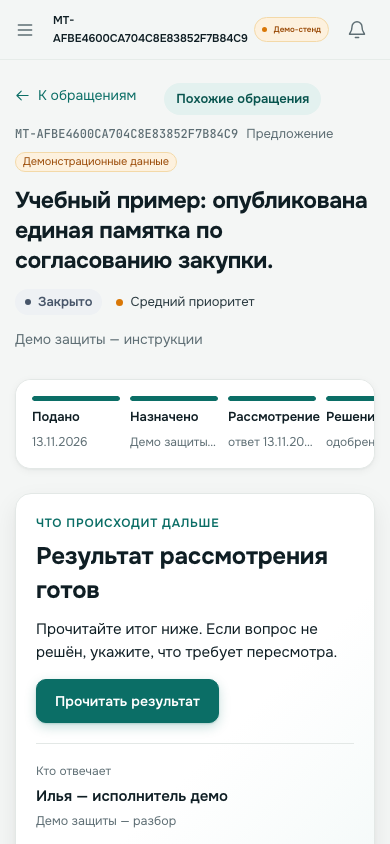
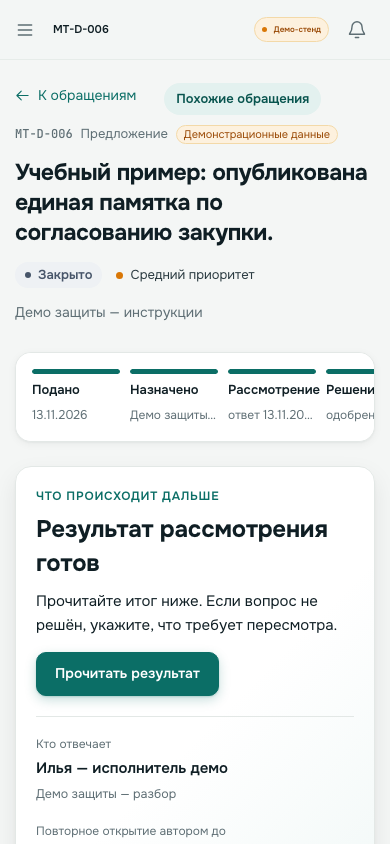
Give hackathon demo cards readable MT-D-00N numbers
The presentation set used random 28-character public numbers, which
cluttered the card header and screenshots. Trusted fixtures can now pass
a fixed number to create_ticket; interactive submissions keep the random
numbers introduced by audit item F16.

- load_hackathon_demo assigns MT-D-001..005 and MT-D-006 for the result
- A fixed number that collides fails fast instead of retrying
- Test covers all six numbers; card screenshots retaken

Changed region(s): [[0.0308, 0.154, 0.9538, 1.0], [0.1231, 0.0, 0.6462, 0.0616], [0.4615, 0.9858, 0.5846, 1.0]]

diff --git a/feedback/management/commands/load_hackathon_demo.py b/feedback/management/commands/load_hackathon_demo.py
@@ -11,6 +11,9 @@ from feedback.services import create_ticket, execute_command
 from feedback.presentation import RESULT_SOURCE
 
 PREFIX = 'HACKATHON-V1-'
+# Readable numbers for the presentation set, in the style of imported MT-A-0XX cards.
+NUMBER_PREFIX = 'MT-D-'
+RESULT_NUMBER = NUMBER_PREFIX + '006'
 DISPLAY_NAMES = {'author': 'Анна — автор демо', 'processor': 'Илья — исполнитель демо', 'coordinator': 'Мария — координатор демо'}
 DESCRIPTIONS = [
     'Синтетический пример: сотрудники не могут найти актуальную инструкцию согласования закупок.',
@@ -69,7 +72,7 @@ class Command(BaseCommand):
             ticket.refresh_from_db()
             return result
         for index, description in enumerate(DESCRIPTIONS, 1):
-            ticket = create_ticket(actor=users['author'], data={'category': category, 'request_type': 'PROBLEM', 'description': description}, idempotency_key=PREFIX + str(index))
+            ticket = create_ticket(actor=users['author'], data={'category': category, 'request_type': 'PROBLEM', 'description': description}, idempotency_key=PREFIX + str(index), number=f'{NUMBER_PREFIX}{index:03d}')
             ticket.source_record_id = PREFIX + str(index)
             ticket.source_data = {'origin': 'hackathon_story_v1', 'synthetic': True, 'note': 'Не факт компании; отдельный сценарий защиты.'}
             ticket.save(update_fields=['source_record_id', 'source_data'])
@@ -92,7 +95,8 @@ class Command(BaseCommand):
             return
         category = Category.objects.get(code='hackathon-story')
         ticket = create_ticket(actor=users['author'], data={'category': category, 'request_type': 'SUGGESTION',
-            'description': 'Учебный пример: опубликована единая памятка по согласованию закупки.'}, idempotency_key=RESULT_SOURCE)
+            'description': 'Учебный пример: опубликована единая памятка по согласованию закупки.'}, idempotency_key=RESULT_SOURCE,
+            number=RESULT_NUMBER)
         ticket.source_record_id = RESULT_SOURCE
         ticket.source_data = {'origin': 'hackathon_result_v1', 'synthetic': True}
         ticket.save(update_fields=['source_record_id', 'source_data'])

diff --git a/feedback/services.py b/feedback/services.py
@@ -161,7 +161,9 @@ def _number_collision(error: IntegrityError) -> bool:
 
 
 @transaction.atomic
-def create_ticket(*, actor, data: dict, idempotency_key: str) -> Ticket:
+def create_ticket(*, actor, data: dict, idempotency_key: str, number: str | None = None) -> Ticket:
+    # `number` is for trusted fixtures only (readable demo numbers); user-facing
+    # submissions always receive a random public number.
     _authorized_actor(actor)
     key = str(idempotency_key or "").strip()
     if not key or len(key) > 128:
@@ -204,15 +206,15 @@ def create_ticket(*, actor, data: dict, idempotency_key: str) -> Ticket:
     # A savepoint makes a rare public-number collision retryable without poisoning
     # the surrounding atomic event/outbox/idempotency transaction.
     for attempt in range(5):
-        number = ticket_number()
+        candidate = number or ticket_number()
         try:
             with transaction.atomic():
-                ticket = Ticket.objects.create(number=number, **fields)
+                ticket = Ticket.objects.create(number=candidate, **fields)
             break
         except IntegrityError as exc:
             if not _number_collision(exc):
                 raise
-            if attempt == 4:
+            if number or attempt == 4:
                 raise DomainError("Не удалось выделить номер. Повторите отправку с тем же ключом.", "number_unavailable", 503)
     _new_cycle(ticket, at)
     _emit(ticket,actor,"CREATED","Обращение зарегистрировано",payload={"routing":routing})

diff --git a/tests/test_presentation.py b/tests/test_presentation.py
@@ -86,6 +86,13 @@ class DemoPresentationTests(TestCase):
         root = Ticket.objects.get(source_record_id='HACKATHON-V1-1')
         self.assertEqual(self.client.get(f'/requests/{root.pk}/demo-result/').status_code, 404)
 
+    def test_demo_cards_have_readable_numbers(self):
+        numbers = dict(Ticket.objects.filter(source_record_id__startswith='HACKATHON-').values_list('source_record_id', 'number'))
+        self.assertEqual(numbers, {f'HACKATHON-V1-{i}': f'MT-D-00{i}' for i in range(1, 6)} | {RESULT_SOURCE: 'MT-D-006'})
+        author = User.objects.get(username='hack_author')
+        self.client.force_login(author)
+        self.assertContains(self.client.get('/'), 'MT-D-006')
+
     def test_repeat_preserves_result_and_deadlines(self):
         before = list(Ticket.objects.order_by('pk').values())
         call_command('load_hackathon_demo', stdout=StringIO())
